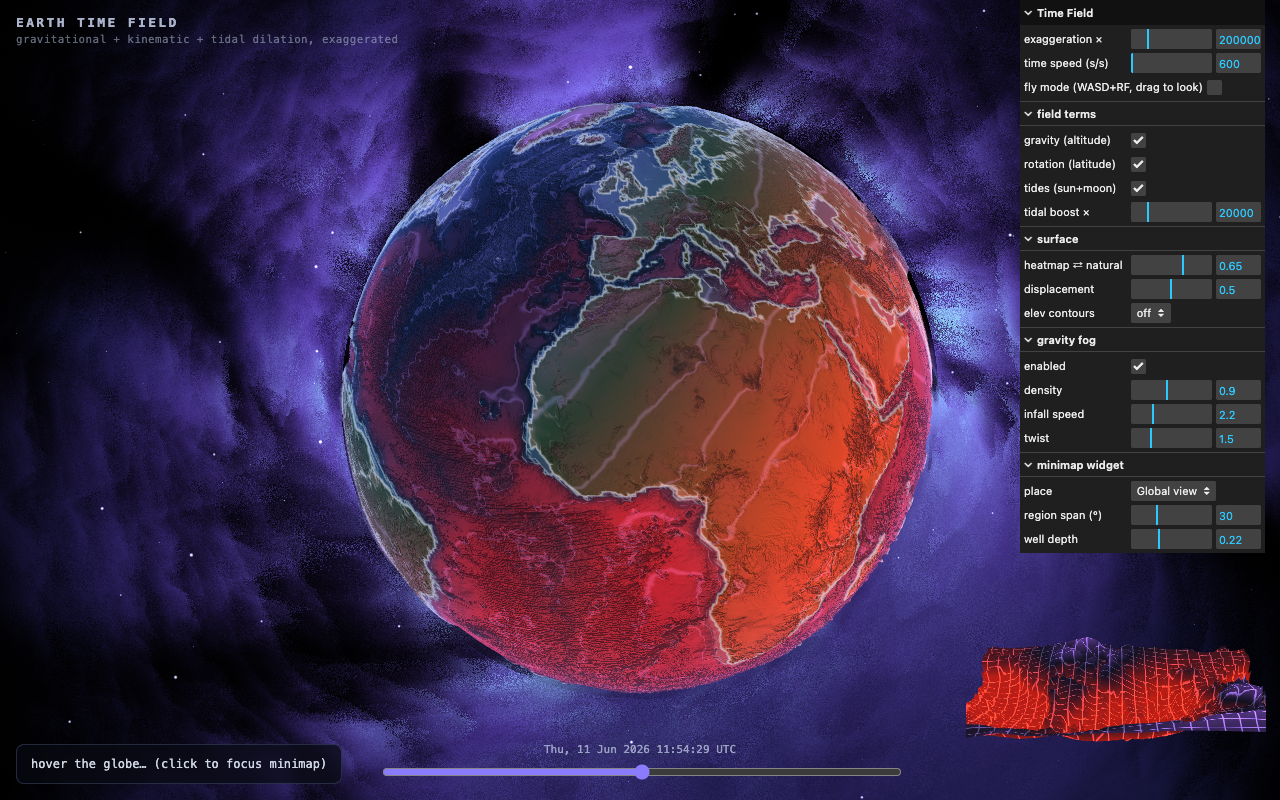
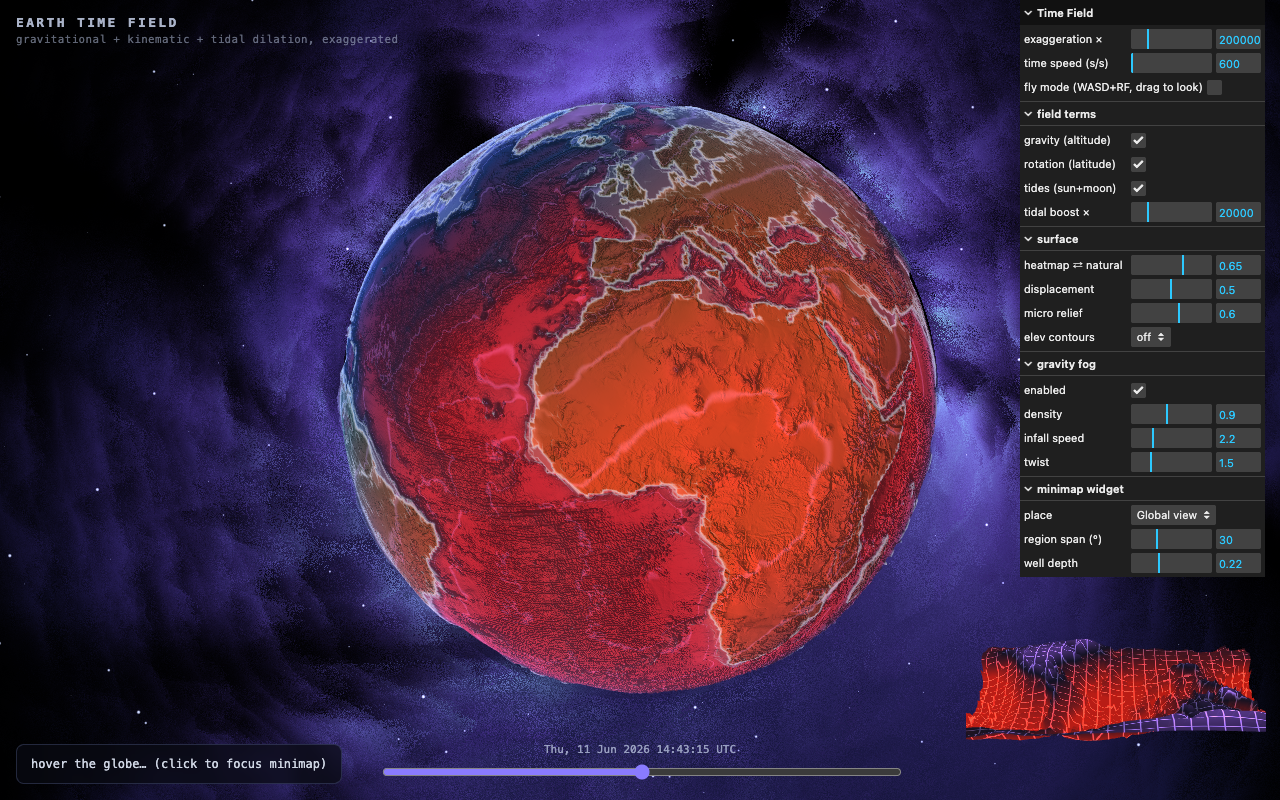
add more terrain detail

diff --git a/web/src/shaders.js b/web/src/shaders.js
@@ -101,6 +101,7 @@ export const earthFragment = /* glsl */ `
   uniform float u_time;
   uniform vec2  u_texel;          // 1/heightmap size
   uniform vec3  u_probe;          // QA marker: (lat deg, lon deg, enabled)
+  uniform float u_micro;          // 0..1 sub-texel shading relief
 
   varying vec3 vSphere;
   varying vec2 vUv;
@@ -131,11 +132,34 @@ export const earthFragment = /* glsl */ `
     return mix(mtn, snow, clamp((e - 3000.0) / 2500.0, 0.0, 1.0));
   }
 
+  // sub-texel procedural relief: 2-octave value noise, slope-modulated.
+  // Pure shading detail (normals only) — geometry and HUD never see it.
+  float hash2(vec2 p) {
+    return fract(sin(dot(p, vec2(127.1, 311.7))) * 43758.5453);
+  }
+  float vnoise(vec2 p) {
+    vec2 i = floor(p), f = fract(p);
+    f = f * f * (3.0 - 2.0 * f);
+    return mix(mix(hash2(i), hash2(i + vec2(1, 0)), f.x),
+               mix(hash2(i + vec2(0, 1)), hash2(i + vec2(1, 1)), f.x), f.y);
+  }
+  float microH(vec2 uv) {
+    return vnoise(uv * 1400.0) * 0.65 + vnoise(uv * 3100.0 + 17.3) * 0.35;
+  }
+
   // terrain-shaded normal from heightmap gradient (clarity > physical truth)
   vec3 terrainNormal() {
     float scale = 60.0; // relief shading strength
     float dx = sampleElev(vUv + vec2(u_texel.x, 0.0)) - sampleElev(vUv - vec2(u_texel.x, 0.0));
     float dy = sampleElev(vUv + vec2(0.0, u_texel.y)) - sampleElev(vUv - vec2(0.0, u_texel.y));
+
+    // micro relief rides on real slope: rugged where the data is rugged
+    float m = u_micro * min(length(vec2(dx, dy)), 1200.0);
+    if (m > 1.0) {
+      float e = 0.7 * u_texel.x;
+      dx += (microH(vUv + vec2(e, 0.0)) - microH(vUv - vec2(e, 0.0))) * m;
+      dy += (microH(vUv + vec2(0.0, e)) - microH(vUv - vec2(0.0, e))) * m;
+    }
     // tangent frame on sphere (east, north)
     vec3 east = normalize(vec3(vSphere.z, 0.0, -vSphere.x));
     vec3 north = cross(vSphere, east);

diff --git a/web/src/main.js b/web/src/main.js
@@ -72,6 +72,7 @@ const params = {
   displaceAmount: 0.5,
   contours: 0,            // meters between elevation contours, 0 = off
   flyMode: false,
+  microRelief: 0.6,       // shading-only sub-texel detail
   gravOn: true, rotOn: true, tidalOn: true,
   timeSpeed: 600,
   // gravity fog
@@ -129,6 +130,7 @@ const earthMat = new THREE.ShaderMaterial({
     u_contours: { value: params.contours },
     u_texel: { value: new THREE.Vector2(1 / metadata.width, 1 / metadata.height) },
     u_probe: { value: new THREE.Vector3(0, 0, 0) },
+    u_micro: { value: params.microRelief },
   },
 });
 
@@ -312,6 +314,8 @@ fTerms.add(params, 'tidalBoost', 1, 100000, 1).name('tidal boost ×').onChange(v
 const fSurf = gui.addFolder('surface');
 fSurf.add(params, 'heatmapMix', 0, 1).name('heatmap ⇄ natural').onChange(v => earthMat.uniforms.u_heatmapMix.value = v);
 fSurf.add(params, 'displaceAmount', 0, 1).name('displacement').onChange(v => earthMat.uniforms.u_displaceAmount.value = v);
+fSurf.add(params, 'microRelief', 0, 1).name('micro relief')
+  .onChange(v => earthMat.uniforms.u_micro.value = v);
 fSurf.add(params, 'contours', { off: 0, '500 m': 500, '1000 m': 1000, '2000 m': 2000 })
   .name('elev contours').onChange(v => earthMat.uniforms.u_contours.value = v);
 
@@ -524,6 +528,17 @@ if (urlq.has('flytest')) {
   aimCamera(27.99, 86.93, 1.03); // looking at origin = nose-diving into terrain
   fly.autoForward = true;
   flyStats = { minClear: Infinity, frames: 0 };
+}
+
+if (urlq.has('microtest')) {
+  // ?microtest=<0..1> -> deterministic globe-only frame for shading diffs
+  earthMat.uniforms.u_micro.value = parseFloat(urlq.get('microtest'));
+  fog.visible = false;
+  simTime = new Date('2026-01-01T00:00:00Z');
+  params.timeSpeed = 0;
+  frozenTime = 50;
+  qaCam = true;
+  aimCamera(27.99, 86.93, 1.6); // close over the Himalaya: micro's use case
 }
 
 if (urlq.has('fogtest')) {

diff --git a/pipeline/enhance_terrain.py b/pipeline/enhance_terrain.py
@@ -1,0 +1,145 @@
+#!/usr/bin/env python3
+"""
+Stage 1.5 of the Earth data pipeline: fractal detail synthesis.
+
+The z=4 source grid is ~10 km/texel, so isolated peaks (a seamount, a single
+volcano) land in one texel and render as spikes, while real ranges read flat.
+This stage adds relief-modulated ridged fBm: noise amplitude is proportional
+to the local relief of the REAL data, so plains and abyssal floors stay
+smooth while peaks grow into textured massifs/ranges. Pure numpy, offline.
+
+Properties:
+  - longitude-seamless (noise lattice wraps in x)
+  - coast-guarded (detail fades to zero near sea level: no coastline drift)
+  - idempotent (refuses to run twice on the same grid unless --force)
+  - keeps the original grid in elevation_raw_f32.npy
+
+Usage:
+  python3 pipeline/enhance_terrain.py [--data data] [--strength 0.9] [--force]
+"""
+
+import argparse
+import json
+import sys
+from pathlib import Path
+
+import numpy as np
+
+sys.path.insert(0, str(Path(__file__).parent))
+from fetch_elevation import write_outputs
+
+# QA landmarks (lat, lon, op, threshold_m) — enhancement must never break these
+LANDMARKS = [
+    ("everest",  27.99,  86.93, ">",  4000),
+    ("ganges",   25.00,  83.00, "<",   200),
+    ("andes",   -23.00, -67.50, ">",  3500),
+    ("atacama", -23.00, -71.50, "<", -4000),
+    ("mariana",  11.35, 142.20, "<", -8000),
+]
+
+
+def sample(elev, lat, lon):
+    h, w = elev.shape
+    x = int(round((lon + 180) / 360 * (w - 1)))
+    y = int(round((90 - lat) / 180 * (h - 1)))
+    return float(elev[y, x])
+
+
+def upsample_wrap(coarse, h, w):
+    """Bilinear upsample, periodic in x (longitude), clamped in y."""
+    gh, gw = coarse.shape
+    fy = np.linspace(0, gh - 1, h)
+    y0 = np.floor(fy).astype(int)
+    y1 = np.minimum(y0 + 1, gh - 1)
+    wy = (fy - y0)[:, None]
+    fx = np.arange(w) * (gw / w)
+    x0 = np.floor(fx).astype(int) % gw
+    x1 = (x0 + 1) % gw
+    wx = (fx - np.floor(fx))[None, :]
+    top = coarse[y0][:, x0] * (1 - wx) + coarse[y0][:, x1] * wx
+    bot = coarse[y1][:, x0] * (1 - wx) + coarse[y1][:, x1] * wx
+    return top * (1 - wy) + bot * wy
+
+
+def ridged_fbm(h, w, octaves=6, base=64, seed=7):
+    """Ridge-shaped multifractal in [-0.5, 0.5]ish, lon-seamless."""
+    rng = np.random.default_rng(seed)
+    out = np.zeros((h, w))
+    amp, total = 1.0, 0.0
+    for o in range(octaves):
+        gh, gw = max(2, h // base * 2 ** o), max(4, w // base * 2 ** o)
+        n = upsample_wrap(rng.random((gh, gw)), h, w)
+        out += amp * (1.0 - np.abs(2.0 * n - 1.0))  # ridges, in [0,1]
+        total += amp
+        amp *= 0.55
+    return out / total - 0.5
+
+
+def box_blur(a, radius, passes=3):
+    """Separable box blur, ~gaussian after a few passes. Wraps in x."""
+    for _ in range(passes):
+        k = 2 * radius + 1
+        c = np.cumsum(np.pad(a, ((radius + 1, radius), (0, 0)), mode="edge"), axis=0)
+        a = (c[k:] - c[:-k]) / k
+        ax = np.concatenate([a[:, -radius - 1:], a, a[:, :radius]], axis=1)
+        c = np.cumsum(ax, axis=1)
+        a = (c[:, k:] - c[:, :-k]) / k
+    return a
+
+
+def enhance(elev, strength, seed=7):
+    h, w = elev.shape
+    # local relief of the real data: blurred gradient magnitude (m per texel)
+    gy, gx = np.gradient(elev.astype(np.float64))
+    relief = box_blur(np.hypot(gx, gy), radius=4)
+
+    # amplitude map: proportional to relief, capped; fades at the coast so
+    # no land/sea texel ever flips sign by synthesis
+    amp = np.minimum(relief * strength, 650.0)
+    amp *= np.clip(np.abs(elev) / 300.0, 0.0, 1.0)
+
+    detail = ridged_fbm(h, w, seed=seed) * 2.0 * amp
+    return (elev + detail).astype(np.float32), float(np.abs(detail).max())
+
+
+def main():
+    ap = argparse.ArgumentParser()
+    ap.add_argument("--data", default="data")
+    ap.add_argument("--strength", type=float, default=0.9,
+                    help="detail amplitude as a fraction of local relief")
+    ap.add_argument("--seed", type=int, default=7)
+    ap.add_argument("--force", action="store_true", help="re-run even if already enhanced")
+    args = ap.parse_args()
+
+    data = Path(args.data)
+    meta = json.loads((data / "metadata.json").read_text())
+    if "+detail" in meta["source"] and not args.force:
+        # never stack detail on detail; restart from the preserved raw grid
+        raw = data / "elevation_raw_f32.npy"
+        if not raw.exists():
+            sys.exit("[enhance_terrain] already enhanced and no raw backup; refusing")
+        elev = np.load(raw)
+        base_source = meta["source"].split("+detail")[0]
+    else:
+        elev = np.load(data / "elevation_f32.npy")
+        np.save(data / "elevation_raw_f32.npy", elev)  # preserve the real data
+        base_source = meta["source"]
+
+    out, dmax = enhance(elev, args.strength, args.seed)
+
+    print(f"[enhance_terrain] max |detail| = {dmax:.0f} m, strength={args.strength}")
+    ok = True
+    for name, lat, lon, op, thr in LANDMARKS:
+        before, after = sample(elev, lat, lon), sample(out, lat, lon)
+        good = after > thr if op == ">" else after < thr
+        ok &= good
+        print(f"[enhance_terrain] {'PASS' if good else 'FAIL'} {name}: "
+              f"{before:.0f} -> {after:.0f} m (want {op} {thr})")
+    if not ok:
+        sys.exit("[enhance_terrain] landmark broken; lower --strength")
+
+    write_outputs(out, data, f"{base_source}+detail-v1-s{args.strength}")
+
+
+if __name__ == "__main__":
+    main()

diff --git a/qa/check_alignment.py b/qa/check_alignment.py
@@ -117,20 +117,30 @@ def stage_fly():
     check("fly", "HUD lon = cam lon", abs(float(hm.group(2)) - res["camLon"]), "<", 0.1, unit="deg")
 
 
-def stage_fog():
-    """Exaggeration must visibly change the fog: frame-diff two shots."""
+def frame_diff(url_a, url_b):
     from PIL import Image, ImageChops
     shots = []
-    for ex in (1000, 1000000):
+    for url in (url_a, url_b):
         png = tempfile.mktemp(suffix=".png")
-        run_chrome(f"{BASE}/?fogtest={ex}", screenshot=png)
+        run_chrome(url, screenshot=png)
         shots.append(Image.open(png).convert("L"))
-    diff = np.asarray(ImageChops.difference(*shots), dtype=float)
-    check("fog", "exaggeration frame-diff", diff.mean(), ">", 1.0, unit="")
+    return np.asarray(ImageChops.difference(*shots), dtype=float).mean()
+
+
+def stage_fog():
+    """Exaggeration must visibly change the fog: frame-diff two shots."""
+    d = frame_diff(f"{BASE}/?fogtest=1000", f"{BASE}/?fogtest=1000000")
+    check("fog", "exaggeration frame-diff", d, ">", 1.0, unit="")
+
+
+def stage_micro():
+    """Micro relief slider must visibly change terrain shading."""
+    d = frame_diff(f"{BASE}/?microtest=0", f"{BASE}/?microtest=1")
+    check("micro", "micro-relief frame-diff", d, ">", 0.5, unit="")
 
 
 if __name__ == "__main__":
-    stages = sys.argv[1:] or ["pipeline", "runtime", "pixel", "fly", "fog"]
+    stages = sys.argv[1:] or ["pipeline", "runtime", "pixel", "fly", "fog", "micro"]
     for s in stages:
         globals()[f"stage_{s}"]()
     print(("ALL PASS" if not FAILS else f"FAILED: {', '.join(FAILS)}"))

diff --git a/CHANGELOG.md b/CHANGELOG.md
@@ -2,6 +2,27 @@
 
 Session history with context a future agent can act on. Newest first.
 
+## 2026-06-11 — Session 5 (terrain detail synthesis)
+
+User feedback: peaks render as spikes / ranges as flat (z=4 is ~10 km/texel,
+so a lone seamount is one texel). Two-layer fix:
+- **Pipeline stage 1.5** `pipeline/enhance_terrain.py` (in run.sh between
+  fetch and GLB): relief-modulated ridged fBm. Noise amplitude ∝ blurred
+  |∇h| of the REAL data (capped 650 m), faded near sea level so coastlines
+  never drift; lon-seamless lattice. Plains +~4 m, Everest +255 m of ridge
+  structure. Idempotent: keeps `elevation_raw_f32.npy`, refuses to stack
+  detail-on-detail (`--force` reapplies from raw). Asserts the QA landmarks
+  itself before writing.
+- **Shader micro relief** (fragment-only, normals): 2-octave value noise at
+  ~3-7 km wavelength, amplitude ∝ real heightmap slope, `u_micro` slider in
+  surface folder. Geometry/HUD/raycast never see it — pure shading.
+- QA additions: `?microtest=<0..1>` deterministic close-up frame; micro
+  stage frame-diffs 0 vs 1 (got 1.33, bar 0.5). All other stages re-pass on
+  the enhanced data.
+- Lesson: global-view frame-diffs dilute close-range shading effects —
+  point the deterministic QA camera at the feature's use-case distance
+  (dist 1.6 over the Himalaya, not 3.2 global).
+
 ## 2026-06-11 — Session 4 (alignment proven, fly mode, fog v4)
 
 ### Commits
